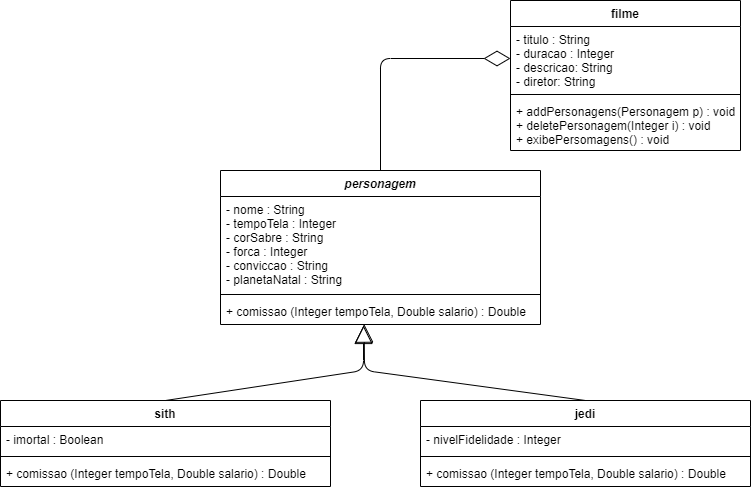
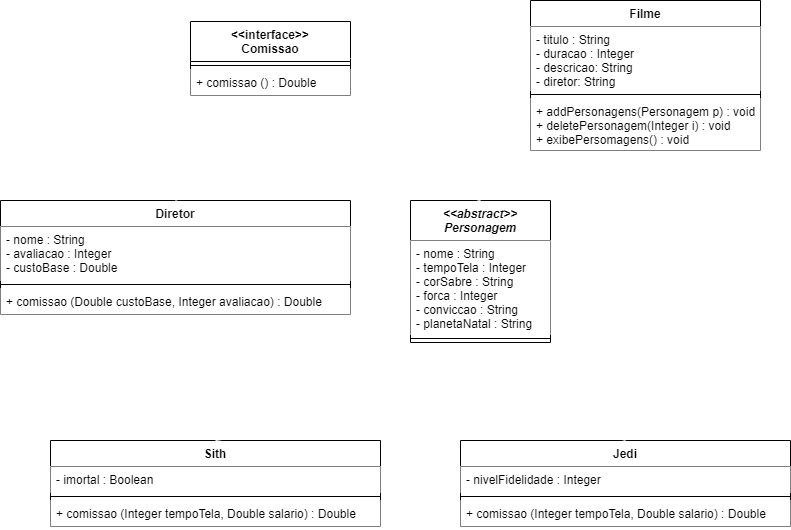
entregéveis de poo e novo diagrama

diff --git a/star-wars/src/main/java/br/com/bandtec/starwars/Personagem.java b/star-wars/src/main/java/br/com/bandtec/starwars/Personagem.java
@@ -1,0 +1,67 @@
+package br.com.bandtec.starwars;
+
+public abstract class Personagem implements Comissao{
+    public String nome;
+    public Integer tempoTela;
+    public String corSabre;
+    public Integer forca;
+    public String conviccao;
+    public String planetaNatal;
+    public Double salarioBase;
+
+    public Personagem(String nome, Integer tempoTela, String corSabre, Integer forca, String conviccao, String planetaNatal, Double salarioBase) {
+        this.nome = nome;
+        this.tempoTela = tempoTela;
+        this.corSabre = corSabre;
+        this.forca = forca;
+        this.conviccao = conviccao;
+        this.planetaNatal = planetaNatal;
+        this.salarioBase = salarioBase;
+    }
+
+    public String getNome() {
+        return nome;
+    }
+
+    public void setNome(String nome) {
+        this.nome = nome;
+    }
+
+    public Integer getTempoTela() {
+        return tempoTela;
+    }
+
+    public void setTempoTela(Integer tempoTela) {
+        this.tempoTela = tempoTela;
+    }
+
+    public String getCorSabre() {
+        return corSabre;
+    }
+
+    public void setCorSabre(String corSabre) {
+        this.corSabre = corSabre;
+    }
+
+    public Integer getForca() {
+        return forca;
+    }
+
+    public void setForca(Integer forca) {  this.forca = forca;  }
+
+    public String getConviccao() {
+        return conviccao;
+    }
+
+    public void setConviccao(String conviccao) {
+        this.conviccao = conviccao;
+    }
+
+    public String getPlanetaNatal() {
+        return planetaNatal;
+    }
+
+    public void setPlanetaNatal(String planetaNatal) {
+        this.planetaNatal = planetaNatal;
+    }
+}

diff --git a/star-wars/src/main/java/br/com/bandtec/starwars/StarWarsController.java b/star-wars/src/main/java/br/com/bandtec/starwars/StarWarsController.java
@@ -1,0 +1,33 @@
+package br.com.bandtec.starwars;
+
+import org.springframework.web.bind.annotation.*;
+
+@RestController
+@RequestMapping("star-wars/")
+public class StarWarsController {
+    Filme aNewHope = new Filme("Uma nova Esperança",
+            "A princesa Leia é mantida refém pelas forças imperiais comandadas por Darth Vader.",
+            "George Lucas", 125);
+
+    Filme attackOfClones = new Filme("Ataque dos clones",
+            "Tentado por promessas de poder, Anakin Skywalker se aproxima de Darth Sidious e participa de um plano para acabar com os Cavaleiros Jedi.",
+            "George Lucas", 122);
+
+    Filme theLastJedi = new Filme("Os Útilmos Jedi",
+                        "A tranquila e solitária vida de Luke Skywalker sofre uma reviravolta quando ele conhece Rey, uma jovem que mostra fortes sinais da Força.",
+                          "Rian Johnson", 152);
+
+    @PostMapping("/jedi/")
+    public Jedi addJedi(@RequestBody Jedi jedi){
+        aNewHope.addPersonagem(jedi);
+        System.out.println("Personagem adicionado com sucesso");
+        return jedi;
+    }
+
+//    @GetMapping("/comissao/{id}")
+//    public Double comissao(@PathVariable Integer id){
+//
+//    }
+
+
+}

diff --git a/star-wars/src/main/java/br/com/bandtec/starwars/Filme.java b/star-wars/src/main/java/br/com/bandtec/starwars/Filme.java
@@ -1,0 +1,42 @@
+package br.com.bandtec.starwars;
+
+import java.util.ArrayList;
+import java.util.List;
+
+public class Filme {
+    private String titulo;
+    private String descricao;
+    private String diretor;
+    private Integer duracao;
+
+    public List <Comissao> comissao;
+
+    public Filme(String titulo, String descricao, String diretor, Integer duracao) {
+        this.titulo = titulo;
+        this.descricao = descricao;
+        this.diretor = diretor;
+        this.duracao = duracao;
+        comissao = new ArrayList<>();
+    }
+
+    public void addPersonagem(Personagem p){
+        comissao.add(p);
+    }
+
+    public String deletePersonagem(Integer index){
+        Comissao producao = comissao.get(index);
+
+        if((comissao.size() >= (index + 1))){
+            comissao.remove(producao);
+            return "Personagem excluído com sucesso";
+        }else{
+            return "Personagem não encontrado";
+        }
+    }
+
+//    public Comissao exibePersonagens(){
+//
+//    }
+
+
+}

diff --git a/star-wars/src/main/java/br/com/bandtec/starwars/Jedi.java b/star-wars/src/main/java/br/com/bandtec/starwars/Jedi.java
@@ -1,0 +1,17 @@
+package br.com.bandtec.starwars;
+
+public class Jedi extends Personagem{
+    private Integer nivelFidelidade;
+
+    public Jedi(String nome, Integer tempoTela, String corSabre,
+                Integer forca, String conviccao, String planetaNatal,
+                Double salarioBase, Integer nivelFidelidade) {
+        super(nome, tempoTela, corSabre, forca, conviccao, planetaNatal, salarioBase);
+        this.nivelFidelidade = nivelFidelidade;
+    }
+
+    @Override
+    public Double comissao() {
+        return salarioBase * tempoTela;
+    }
+}

diff --git a/star-wars/src/main/java/br/com/bandtec/starwars/Sith.java b/star-wars/src/main/java/br/com/bandtec/starwars/Sith.java
@@ -1,0 +1,15 @@
+package br.com.bandtec.starwars;
+
+public class Sith extends Personagem{
+    private Boolean imortal;
+
+    public Sith(String nome, Integer tempoTela, String corSabre, Integer forca, String conviccao, String planetaNatal, Double salarioBase, Boolean imortal) {
+        super(nome, tempoTela, corSabre, forca, conviccao, planetaNatal, salarioBase);
+        this.imortal = imortal;
+    }
+
+    @Override
+    public Double comissao() {
+        return salarioBase * tempoTela;
+    }
+}

diff --git a/star-wars/src/main/java/br/com/bandtec/starwars/Diretor.java b/star-wars/src/main/java/br/com/bandtec/starwars/Diretor.java
@@ -1,0 +1,18 @@
+package br.com.bandtec.starwars;
+
+public class Diretor implements Comissao{
+    private String nome;
+    private Integer avaliacao;
+    private Double custoBase;
+
+    public Diretor(String nome, Integer avaliacao, Double custoBase) {
+        this.nome = nome;
+        this.avaliacao = avaliacao;
+        this.custoBase = custoBase;
+    }
+
+    @Override
+    public Double comissao() {
+        return custoBase * (avaliacao / 100);
+    }
+}

diff --git a/star-wars/src/main/java/br/com/bandtec/starwars/Comissao.java b/star-wars/src/main/java/br/com/bandtec/starwars/Comissao.java
@@ -1,0 +1,5 @@
+package br.com.bandtec.starwars;
+
+public interface Comissao {
+    public Double comissao();
+}
